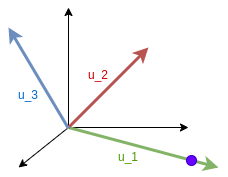
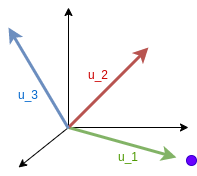
Working on SVD

Changed region(s): [[0.0305, 0.0284, 1.0, 0.9659], [0.5178, 0.8523, 0.5482, 0.9091], [0.5482, 0.9091, 0.5787, 0.9375]]

diff --git a/_ml/dim_reduction/dim_reduction.md b/_ml/dim_reduction/dim_reduction.md
@@ -148,21 +148,24 @@ Lets first think of $$A \in \mathbf{R}^{n \times m}$$ as a [linear map](https://
 A: \mathcal{V} \subseteq \mathbf{R}^n \rightarrow \mathcal{U} \subseteq \mathbf{R}^m
 \end{equation}
 
-In this case, SVD finds an orthogonal base $$\{v_1, ... v_n\}$$ in $$\mathcal{V}$$ and another one $$\{u_1, ... u_m\}$$ in $$\mathcal{U}$$ such that in those bases $$A$$ is just a **positive dilation** (and a **projection**).
+In this case, SVD finds an orthonormal base $$\mathcal{B}_\mathcal{V} = \{v_1, ... v_n\}$$ in $$\mathcal{V}$$ and another one $$\mathcal{B}_\mathcal{U} = \{u_1, ... u_m\}$$ in $$\mathcal{U}$$ such that between those bases $$A$$ is diagonal ($$\Sigma$$).
 
-If $$A \in \mathbf{R}^{2 \times 3}$$, it maps points from a 2-d space $$\mathcal{V}$$ to a plane in a 3-d space $$\mathcal{U}$$.
-SVD maps an orthonormal base $$\mathcal{B}_\mathcal{V}$$ in $$\mathcal{V}$$ to one $$\mathcal{B}_\mathcal{U}$$ in $$\mathcal{U}$$: $$v_1 \rightarrow u_1, v_2 \rightarrow u_2$$, such that a point $$p = (p_1 , p_2)_{\mathcal{B}_\mathcal{U}}$$ gets mapped to $$p = (\sigma_1 \cdot p_1 , \sigma_2 \cdot p_2)_{\mathcal{B}_\mathcal{U}}$$
+For instance: If $$A \in \mathbf{R}^{2 \times 3}$$,
+<!-- it maps points from a 2-d space $$\mathcal{V}$$ to a plane in a 3-d space $$\mathcal{U}$$. -->
+<!-- SVD maps an orthonormal base $$\mathcal{B}_\mathcal{V}$$ in $$\mathcal{V}$$ to one $$\mathcal{B}_\mathcal{U}$$ in $$\mathcal{U}$$: $$v_1 \rightarrow u_1, v_2 \rightarrow u_2$$, such that **EVERY** point $$p = (p_1 , p_2)_{\mathcal{B}_\mathcal{V}}$$ gets mapped to $$q = (\sigma_1 \cdot p_1 , \sigma_2 \cdot p_2, 0)_{\mathcal{B}_\mathcal{U}}$$: -->
+SVD maps: $$v_1 \rightarrow u_1, v_2 \rightarrow u_2$$.
+Such that **EVERY** point $$p = (p_1 , p_2)_{\mathcal{B}_\mathcal{V}}$$ gets mapped to $$q = (\sigma_1 \cdot p_1 , \sigma_2 \cdot p_2, 0)_{\mathcal{B}_\mathcal{U}}$$:
 
 {% include figure.html url="/_ml/dim_reduction/svd_interpretation.png"
-description="Figure 2: Representation of A mapping SVD. Left singular vectors in the 2-d space are mapped to right singular vectors in 3-d space. Figure from CampusAI."
+description="Figure 2: Representation of A mapping SVD. Left singular vectors in the 2-d space are mapped to right singular vectors in 3-d space. In this case $\sigma_1 >> \sigma_2$. Figure by CampusAI."
 %}
 
-In those directions in which the dilation is close to $$0$$, the dimension will be ignored.
+As we saw, SVD matrix approximation ignores the dimensions where the dilation is factor ($$\sigma_i$$) is close to $$0$$
 In the image, $$\sigma_2$$ is much smaller than $$\sigma_1$$, if we remove the second dimension our mapping approximation will lie in a line.
 The purple point will then be on the $$u_1$$ direction.
 
 {% include figure.html url="/_ml/dim_reduction/svd_compression.png"
-description="Figure 3: Representation of the effect of removing second dimension. Figure from CampusAI."
+description="Figure 3: Effect of removing the second dimension. Notice that the purple point is relatively close to the `real` position. Figure by CampusAI."
 %}
 
 
